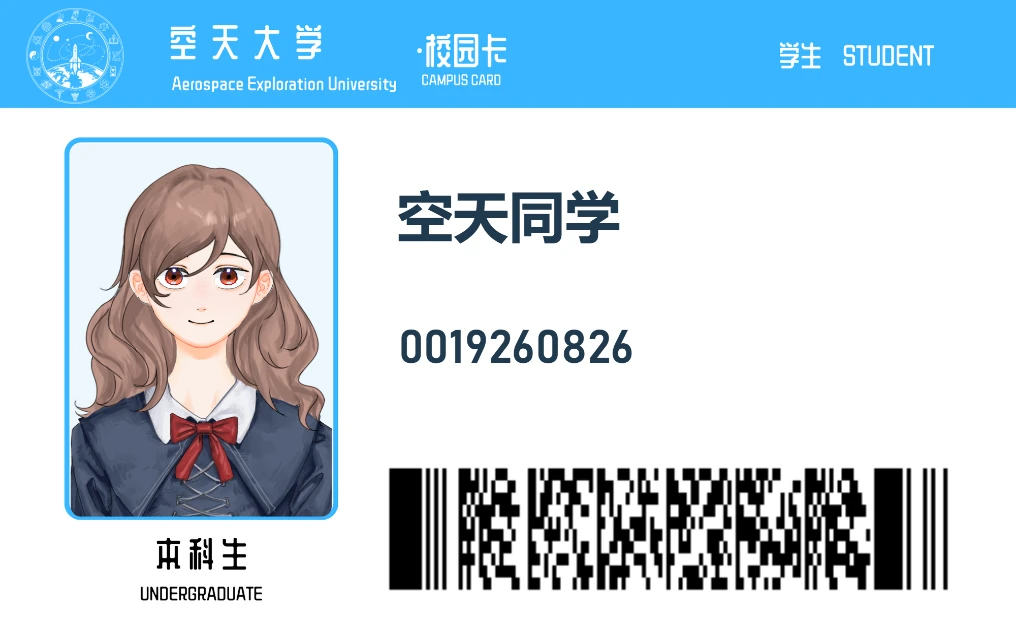
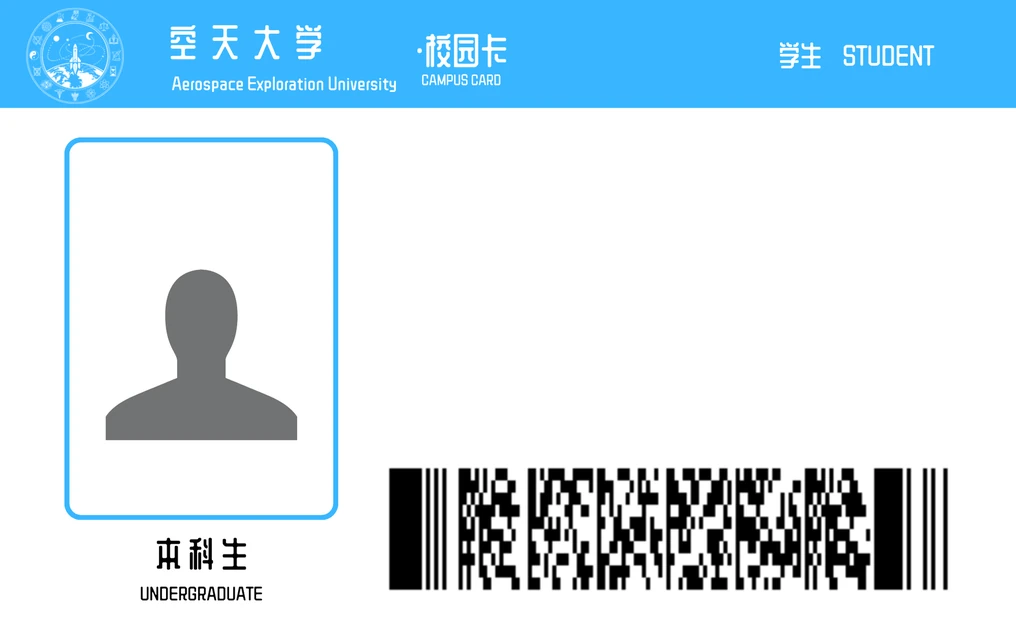
Use original template portrait in homepage campus card display

Changed region(s): [[0.061, 0.2382, 0.3356, 0.8339], [0.3967, 0.2978, 0.6102, 0.3871], [0.3967, 0.5063, 0.6407, 0.5658]]

diff --git a/index.html b/index.html
@@ -8,7 +8,7 @@
     <link rel="icon" href="assets/favicon.png" type="image/png" />
     <link rel="stylesheet" href="css/main.css?v=20260927a" />
     <link rel="stylesheet" href="css/orbital.css?v=20260927a" />
-    <link rel="stylesheet" href="css/campus-card-event.css?v=20261010-stack">
+    <link rel="stylesheet" href="css/campus-card-event.css?v=20261010-original-avatar">
   </head>
   <body>
     <a class="skip" href="#main">跳到主要内容</a>
@@ -112,7 +112,10 @@
         <div class="wrap home-signal campus-card-invite">
           <figure class="campus-card-product" aria-label="校园卡正反面展示">
             <div class="campus-card-product-face campus-card-product-back"><img src="assets/campus-card-back.webp" width="1016" height="638" alt="校园卡背面：空天大学校舍与天文望远镜" loading="lazy" decoding="async"></div>
-            <div class="campus-card-product-face campus-card-product-front"><img src="assets/campus-card-front.webp" width="1016" height="638" alt="校园卡正面：角色形象、姓名与学号示例" loading="lazy" decoding="async"></div>
+            <div class="campus-card-product-face campus-card-product-front">
+              <img src="assets/campus-card-front.webp?v=original-avatar" width="1016" height="638" alt="校园卡正面：原版简笔画头像、姓名与学号示例" loading="lazy" decoding="async">
+              <svg class="campus-card-sample-text" viewBox="0 0 2000 1266" aria-hidden="true"><text x="782" y="469" font-family="Microsoft YaHei, PingFang SC, sans-serif" font-size="110" font-weight="700">空天同学</text><text x="784" y="720" font-family="Bahnschrift, Consolas, monospace" font-size="92" font-weight="500">0019260826</text></svg>
+            </div>
           </figure>
           <div><p class="archive-label">CAMPUS CARD · SPECIAL EVENT</p><h2 id="campus-card-heading">制作校园卡</h2><p>捏出你的校园形象，写下姓名与学号，把属于你的空天故事装进口袋。</p><p class="campus-card-note">在线制作 · 下载留念 · 活动打印</p><a class="btn btn-solid" href="campus-card/">开始制作校园卡 <span aria-hidden="true">→</span></a></div>
         </div>

diff --git a/css/campus-card-event.css b/css/campus-card-event.css
@@ -40,6 +40,7 @@
   transition: transform 350ms ease, box-shadow 350ms ease;
 }
 .campus-card-product-face img { display: block; width: 100%; height: 100%; object-fit: contain; }
+.campus-card-sample-text { position: absolute; inset: 0; width: 100%; height: 100%; fill: #20394d; pointer-events: none; }
 .campus-card-product-face::after {
   content: "";
   position: absolute;

diff --git a/docs/campus-card-activity.md b/docs/campus-card-activity.md
@@ -4,7 +4,7 @@
 
 首页最下方新增「制作校园卡」入口，沿用官网现有字体、蓝色背景、圆角及模块样式。制作页 `/campus-card/` 从本地捏脸工具的多文件版本引入，保留全部 59 份原画部件、男女底图、统一卡背和本科/研究生卡面。没有改变原始素材。
 
-首页入口使用真实工具导出的正反面示例，以错位、倾斜和阴影叠放展示；示例姓名为「空天同学」。素材 `assets/campus-card-front.webp` 和 `assets/campus-card-back.webp` 总计约 246 KiB，不在首页加载完整捏脸素材。手机自动改为上图下文，减少动态效果设置下禁用悬浮动效。
+首页入口使用原始校园卡模板，以错位、倾斜和阴影叠放展示。正面保留原图的灰色简笔画头像，姓名「空天同学」与学号「0019260826」由 SVG 文字叠加。素材为 `assets/campus-card-front.webp` 和 `assets/campus-card-back.webp`，不在首页加载完整捏脸素材。手机自动改为上图下文，减少动态效果设置下禁用悬浮动效。
 
 点击下载同时保存正面和背面两张 PNG（均为 1016×638、300 DPI），正面文件名仍为 `姓名+学号.png`，背面为 `姓名+学号_背面.png`。若浏览器阻止多个自动下载，可用生成后显示的单独下载链接。普通浏览器下载，无需选择目录权限；重复本地下载的覆盖或自动编号由用户浏览器决定。点击「打印」仅提交正面到后端；服务器同名直接替换。印刷仍按实际大小 86×54 mm。
 
